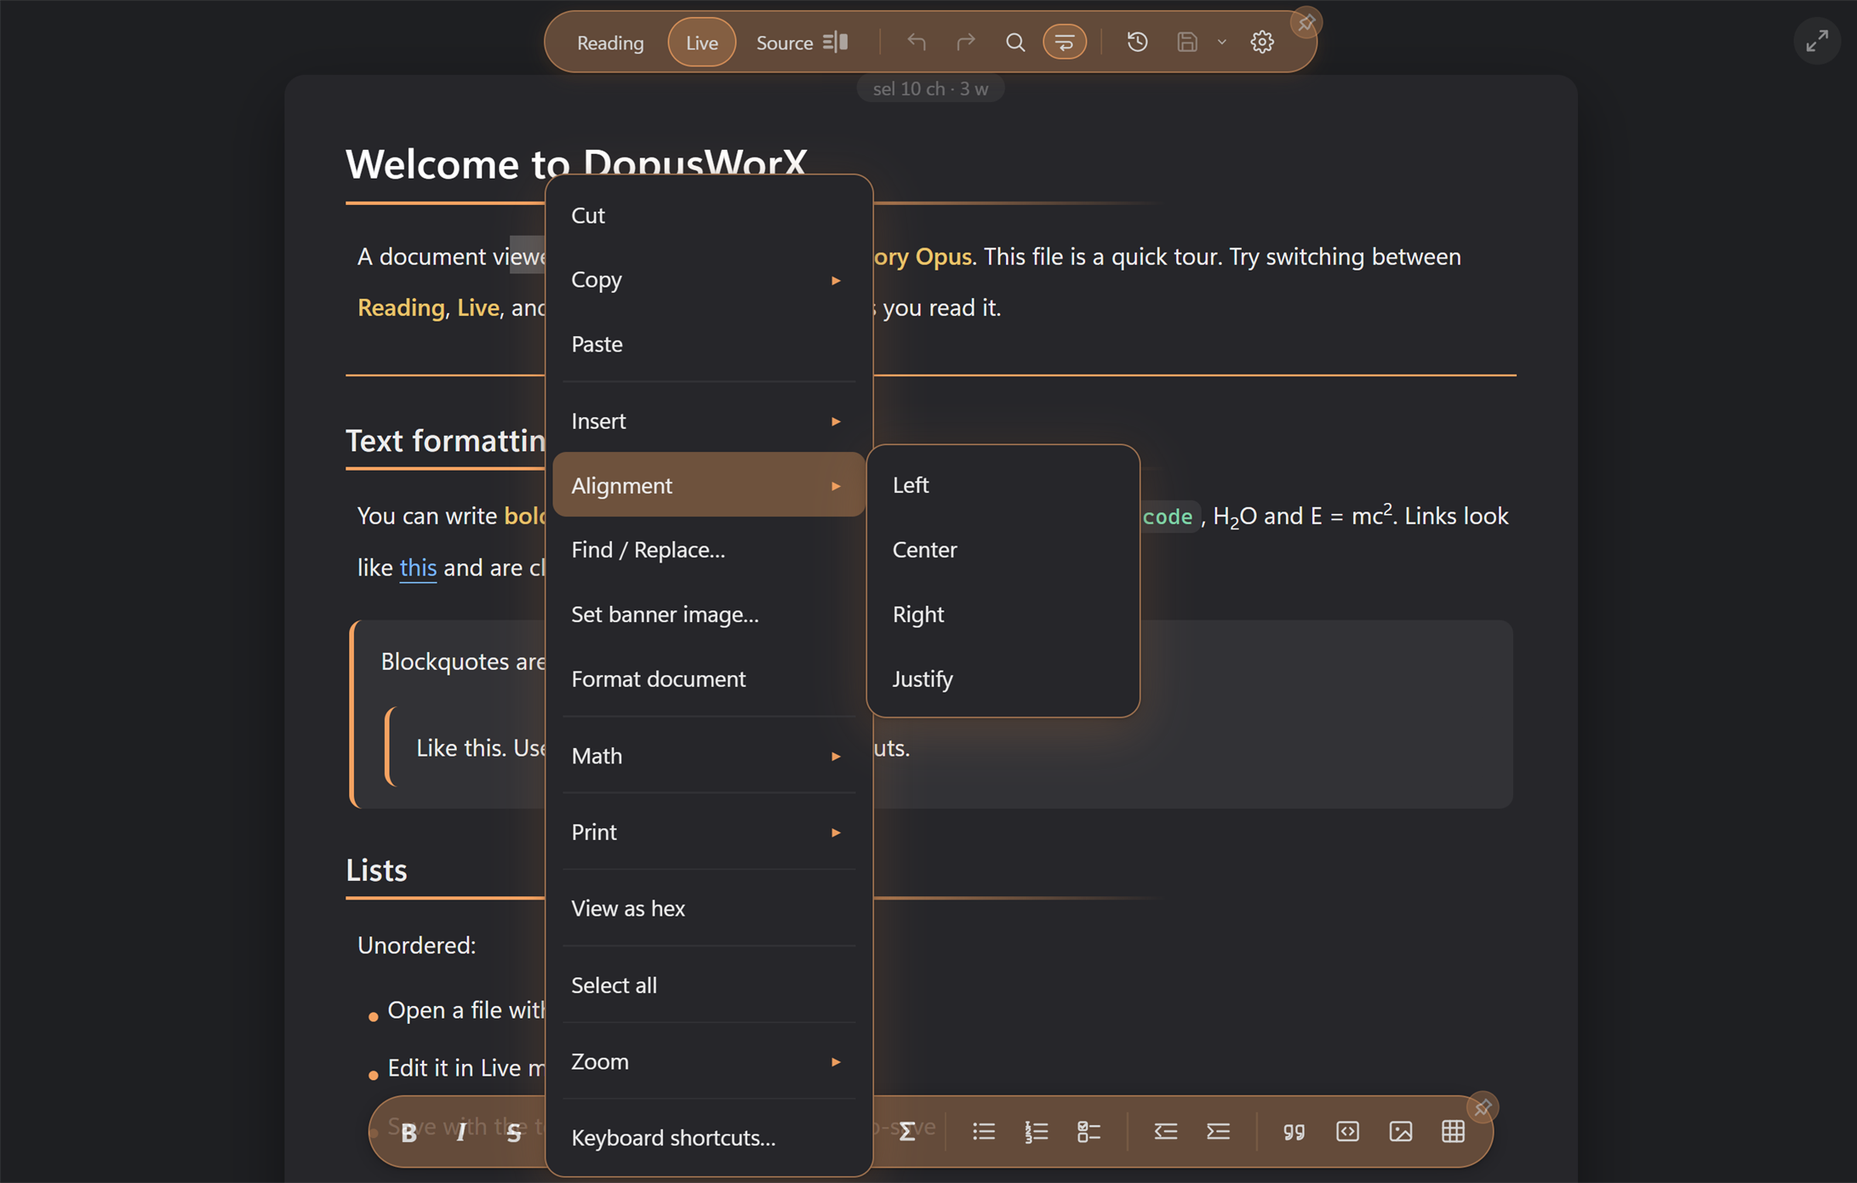
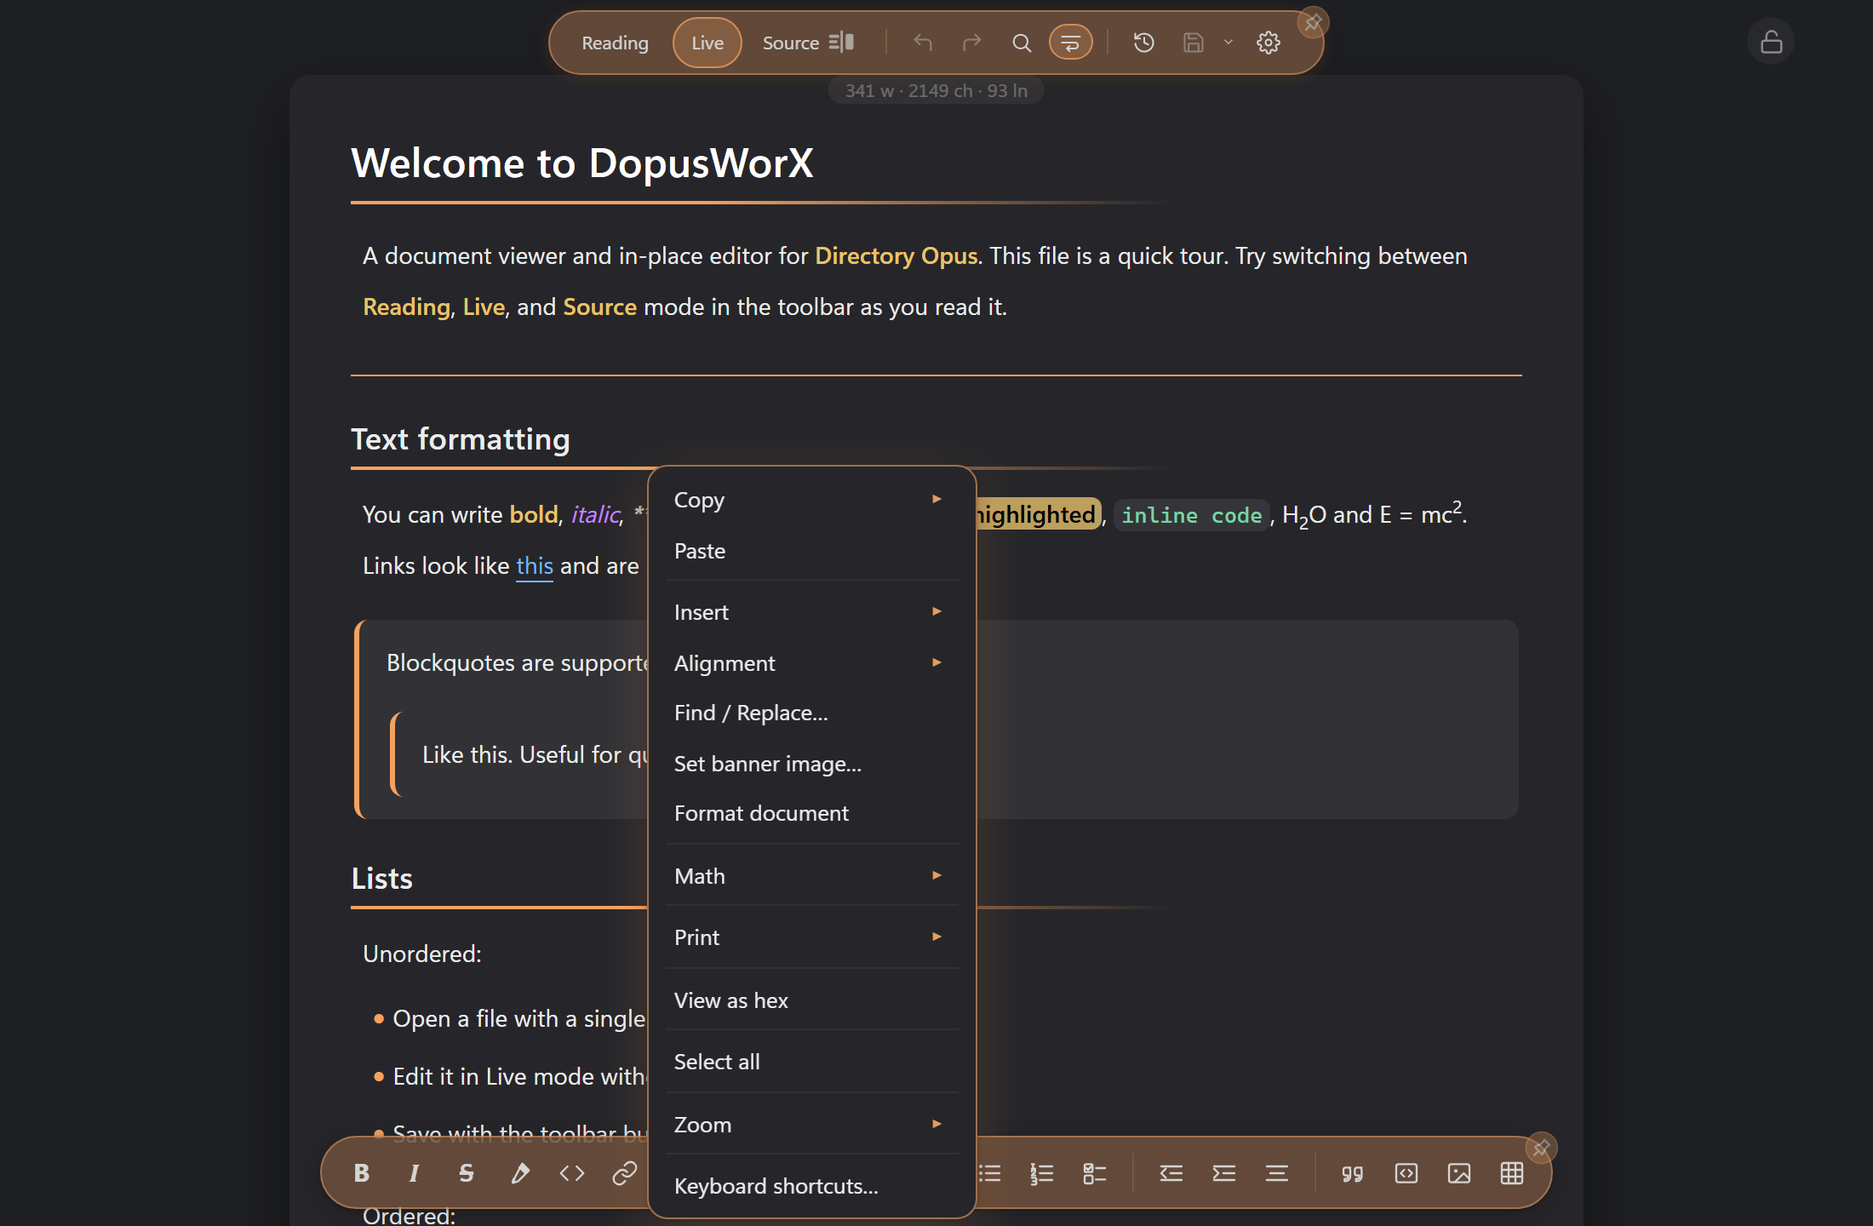
Docs: refresh the guides and screenshots
The editing toolbar gained a change-case button and an alignment button, so
the toolbar and banner screenshots were showing a toolbar that no longer
exists. Recaptured those and the shots that carry the toolbar in the frame.

Documented both new buttons, and corrected the heading row: holding the
button now offers No heading, so the note about deleting the # by hand was
wrong. The conflict banner entries were missing Save a copy & reload, which
the banner has always shown in those two cases.

diff --git a/docs/03-editing.md b/docs/03-editing.md
@@ -56,7 +56,7 @@ The formatting toolbar runs along the bottom of the pane in Live and Source mode
 
 You can rearrange the toolbar to suit you: **Edit toolbar layout** in Settings, on the General tab under Toolbars, lets you drag buttons sideways to reorder them, click one to hide or show it, and Reset to put the default set back.
 
-<div align="center"><img src="images/editing-toolbar.png" width="640" alt="The formatting toolbar: bold, italic, strikethrough, highlight, inline code, link, footnote and clear-formatting, then the heading and maths buttons, the list buttons, indent, blockquote, code block, and image and table insert"></div>
+<div align="center"><img src="images/editing-toolbar.png" width="640" alt="The formatting toolbar: bold, italic, strikethrough, highlight, inline code, link, footnote and clear-formatting, then the heading, change-case and maths buttons, the list buttons, indent and align, blockquote, code block, and image and table insert"></div>
 
 ### Inline formatting
 
@@ -77,16 +77,34 @@ The common inline wraps also have keyboard shortcuts in markdown Live and Source
 
 | Button | What it does |
 |---|---|
-| **Heading (H)** | Cycles the heading level of the current line. The number on the button shows what the next click will apply. A plain line becomes H1; an existing heading steps up one level, wrapping H6 back to H1. Moving the cursor to another line re-reads that line's level. The button always sets a level rather than removing it; to drop a heading, delete the `#` or undo. |
+| **Heading (H)** | Cycles the heading level of the current line. The number on the button shows what the next click will apply. A plain line becomes H1; an existing heading steps up one level, wrapping H6 back to H1. Moving the cursor to another line re-reads that line's level. Hold the button instead of clicking it and a menu opens with Heading 1 to Heading 6 and **No heading**, which takes the `#` marks off and leaves a plain line. |
+| **Change case (Aa)** | Changes the case of the selected words. Clicking cycles UPPERCASE, lowercase, Sentence case, hyphenated-words and camelCaseWords in that order, so you can press it until the text reads the way you want. Hold it to open the list and pick one outright. The last two join the words together, so they need more than one word to mean anything and are greyed out when a single word is selected. |
 | **Sigma (Σ)** | Opens the maths symbol panel. The button is present whenever maths rendering is on, which it is by default, and disappears only if you turn maths off in settings. See the maths page for what the panel does. |
 
 ### Lists
 
 | Button | Produces |
 |---|---|
-| **Bulleted list** | `- ` on each selected line (click again to remove) |
-| **Numbered list** | `1. `, `2. `, `3. ` down the selected lines, renumbered in sequence (click again to remove) |
-| **Task list** | `- [ ] ` on each selected line, preserving any indent so it works inside nested lists (click again to remove) |
+| **Bulleted list** | `- ` at the start of each selected paragraph (click again to remove) |
+| **Numbered list** | `1. `, `2. `, `3. ` down the selected paragraphs, renumbered in sequence (click again to remove) |
+| **Task list** | `- [ ] ` on each selected paragraph, preserving any indent so it works inside nested lists (click again to remove) |
+
+The list buttons work on paragraphs, not on lines of the file. Prose is usually
+hard-wrapped across several lines, so marking every line would turn each
+continuation into an item of its own and put an empty item on every blank line
+between paragraphs. A wrapped paragraph becomes one item, and blank lines are
+left alone. Selecting nothing and clicking inside a paragraph marks that
+paragraph, wherever the cursor sits in it.
+
+The exception is a list you are already building. If the selection already
+contains markers - `- a` on one line and a bare `b` on the next - each line is
+treated as its own item, because that is a half-made list rather than a wrapped
+paragraph.
+
+**Enter** at the end of a list item starts the next one, carrying the marker,
+the indent and the number. Press it again on the empty item and the marker goes,
+leaving a plain line, the way a word processor ends a list. On a nested item the
+first press steps back out to the outer list.
 
 **Tab** indents the current line and **Shift+Tab** outdents it, two spaces at a time. This works on any line in the editor, not just list lines - the same two-space step as the indent buttons below.
 
@@ -99,6 +117,7 @@ Settings, under Body text, one value that Reading and Live follow identically.
 |---|---|
 | **Increase indent** | adds two spaces to the front of each selected line |
 | **Decrease indent (outdent)** | removes up to two leading spaces from each selected line |
+| **Align** | centres the current block. Clicking again on something already centred takes the centring off, so the one button both applies and removes it. Hold it for Left, Centre, Right and Justify. It writes the same `<div align="...">` wrapper the right-click Align menu writes, and Reading and Live both honour it. |
 
 ### Blocks
 
@@ -106,6 +125,19 @@ Settings, under Body text, one value that Reading and Live follow identically.
 |---|---|
 | **Blockquote** | `> ` on each selected line (click again to remove) |
 | **Fenced code block** | a ```` ``` ```` fence around the selection, or an empty fence with the cursor on the body line. The fence always starts and ends on its own line so it parses cleanly. |
+
+Everything the toolbar writes works inside a quote box and stays inside it. A
+quote continues only while every line carries its `> `, so anything written
+without one would end the quote at that point and split it in two. The list
+buttons put their marker after the `> ` rather than in front of it, indent steps
+in behind it, and the code block, table and image inserts carry the prefix on
+every line they write, including the blank line they leave behind them. Block
+inserts also take a line of their own rather than joining the sentence the
+cursor was in.
+
+An alignment wrapper works around a quote too. `<center>` or
+`<div align="center">` around a quote box centres the box in Reading and in
+Live alike, so a centred call-out looks the same whichever mode you are in.
 | **Insert image** | opens the image popup (below) |
 | **Insert table** | opens the table size grid (below) |
 
@@ -115,7 +147,7 @@ A `---` on its own line renders as a horizontal rule divider. Its appearance - s
 
 When you open a code or text file in Source mode, the formatting toolbar is replaced by a code-editing toolbar. These commands are language-agnostic and run CodeMirror's own editing commands, so they behave exactly like the editor itself.
 
-<div align="center"><img src="images/code-toolbar.png" width="280" alt="The code-editing toolbar: toggle comment, outdent, indent, duplicate line, move line up, move line down, find, and the whitespace and indentation guide toggles"></div>
+<div align="center"><img src="images/code-toolbar.png" width="280" alt="The code-editing toolbar: toggle comment, change case, outdent, indent, duplicate line, move line up, move line down, find, and the whitespace and indentation guide toggles"></div>
 
 | Button | What it does |
 |---|---|
@@ -164,6 +196,34 @@ The image button (in the formatting toolbar) opens a small popup so you can plac
 Insert is enabled as soon as the Source field has text. The popup writes Obsidian-style image markdown, for example `![alt|400x300|center](path)`, which renders at the right size and alignment both here and in Obsidian. Click outside the popup, or its close control, to close it.
 
 You can write the same syntax by hand anywhere: `![alt|420](path)` sets a width, `![alt|420x300](path)` width and height, `![alt|x300](path)` a height alone, and a trailing `|left`, `|center` or `|right` aligns the image. The Obsidian embed form takes the same sizes: `![[img.png|420]]` (see [Wikilinks and embeds](#wikilinks-and-embeds)).
+
+### Pasting an image
+
+Copy a picture anywhere in Windows and press Ctrl+V in the document. A screenshot,
+an image copied out of a browser or a paint program, a file copied in a Lister: if
+the clipboard holds a picture, DopusWorX writes it to disk and drops the markdown
+reference in at the cursor. Nothing to fill in and no popup.
+
+The file is named `pasted-` plus the date and time, so a folder of them stays in
+the order you made them and two documents in the same folder never collide. Its
+type comes from the picture itself rather than from what the clipboard claims, so
+a PNG lands as `.png` and a JPEG as `.jpg`. PNG, JPEG, GIF, WebP, BMP, ICO, AVIF,
+HEIC and SVG are all recognised; anything else is refused rather than saved under
+a guessed name.
+
+By default the file goes next to the document. The **Save pasted images to**
+setting takes a folder name instead, `attachments` being the usual choice, and it
+is created the first time you paste. It has to be a plain folder under the
+document's own folder.
+
+Two things worth knowing:
+
+- The document needs to have been saved somewhere first. Until it has a path there
+  is no folder to write beside, and the viewer says so rather than guessing.
+- Pasting text is untouched. An image only takes over when the clipboard actually
+  holds one, which is also what happens when you copy a picture from a web page:
+  the clipboard carries both the picture and its URL, and the picture is the one
+  you meant.
 
 ### How local images are found
 
@@ -419,7 +479,7 @@ Ctrl+R or F5 reloads the file from disk, in any mode, not just Reading. If you h
 
 ### If the file changes underneath you
 
-<div align="center"><img src="images/conflict-banner.png" width="640" alt="The frosted conflict banner overlaying the document, showing the 'Edits here and a change outside' message with Keep my edits and Discard and reload buttons"></div>
+<div align="center"><img src="images/conflict-banner.png" width="640" alt="The frosted conflict banner overlaying the document, showing the 'Edits here and a change outside' message with Keep my edits, Save a copy & reload and Discard my edits and load it buttons"></div>
 
 Your unsaved work is never silently dropped.
 
@@ -428,9 +488,9 @@ Switch away from a file you were editing and back again and the edits are simply
 The banner is for when two versions really are in play. It appears and stays until you choose. The message and buttons fit the case:
 
 - **Unsaved edits in another window.** If another DopusWorX window holds unsaved edits for the same file, the banner says so and offers **Use those edits here** (adopt them and carry on), **Save a copy & reload** (writes your edits to a timestamped copy beside the file, then loads the disk version) or **View disk version**. Viewing the disk version never touches the other window's edits; they stay safe in that window.
-- **Edits here and a change outside.** If you have unsaved edits and the file also changed on disk or in another window, **Keep my edits** keeps your version and makes your next save win; **Discard and reload** takes the disk version.
-- **A save lost the race.** If a save finds the disk copy changed first, **Keep my edits** saves your version over it; **Discard and reload** takes the disk version.
-- **No local edits, new content elsewhere.** If your copy is clean and the file changed on disk or was saved by another window, the banner asks whether to **Reload** or **Keep current view**.
+- **Edits here and a change outside.** If you have unsaved edits and the file also changed on disk or in another window, **Keep my edits** keeps your version and makes your next save win; **Save a copy & reload** writes your edits to a timestamped copy beside the file and then loads the disk version; **Discard my edits and load it** takes the disk version.
+- **A save lost the race.** If a save finds the disk copy changed first, **Keep my edits** saves your version over it; **Save a copy & reload** keeps both, as a timestamped copy beside the file; **Discard my edits and load it** takes the disk version.
+- **No local edits, new content elsewhere.** If your copy is clean and the file changed on disk or was saved by another window, the banner asks whether to **Load the new version** or **Keep this version**.
 
 This prompt is controlled by **Ask before reloading** in Settings, on the General tab under Open & save (on by default). Turn it off and a clean file reloads straight away with a brief notice instead of a banner - useful for logs or generated files that update on their own. Unsaved edits plus a change outside always prompt regardless of this setting.
 

diff --git a/docs/07-palettes.md b/docs/07-palettes.md
@@ -1,7 +1,10 @@
 # Palettes
 
-32 built-in palettes &middot; 19 dark &middot; 13 light, plus the **Default** dark
-and light themes the viewer falls back to when no palette is pinned.
+34 built-in palettes &middot; 20 dark &middot; 14 light, plus the **Default** dark
+and light themes the viewer falls back to when no palette is pinned. Thirty-two
+of them have a card below. The two GitHub Web palettes do not, because what they
+look like is a GitHub page: open a README under one and you are looking at the
+card already.
 
 Out of the box no palette is fixed: the page follows the Opus pane background
 (light or dark), which is what the **Default Dark** and **Default Light** cards
@@ -92,6 +95,34 @@ Every marker token is coloured via the palette accent; bold / italic / strike / 
 </tr>
 </table>
 
+## The GitHub pairs, and which one you want
+
+There are two GitHub entries in each list and they do different jobs.
+
+**GitHub Dark** and **GitHub Light** are Primer's colours on the DopusWorX
+layout. Pick one of those if you like the way github.com looks and want your
+documents to read that way, with the spacing, headings and code boxes you are
+used to here.
+
+**GitHub Web Dark** and **GitHub Web Light** go further. They carry the site's
+measurements as well as its colours: 16px body text on a 1.5 line, headings at
+2 / 1.5 / 1.25 / 1 / 0.875 / 0.85em with 24px above and 16px below, a hairline
+under the H1 and H2, a grey bar down an unfilled blockquote, lists indented 2em,
+inline code at 85% in a soft chip, fenced code in a 6px box with no accent
+stripe, table cells at 6px by 13px with every second row shaded, and a 4px
+horizontal rule. Bold, italic, strikethrough and inline code all take the body
+colour, because that is what the site does with them.
+
+That is the pair to use while you are writing a README. What you see in the pane
+is what the repository page will show, so you can catch a heading that wants to
+be an H2 or a table that runs too wide before you push it.
+
+The numbers come from `github-markdown-css`, the published build of Primer that
+github.com renders a README with, so they are the site's own rather than a match
+by eye. Your own settings still win: set the body size to 18px and you keep
+18px, with GitHub's proportions built on top of it. Reading and Live are driven
+from the same values, so switching modes does not move anything.
+
 ## NibWorX, and the gradient in the code
 
 NibWorX and NibWorX Light are the DopusWorX mark read as a document theme. The six heading colours are steps 1, 3, 5, 7, 9 and 11 of the same
@@ -179,11 +210,25 @@ A few related controls sit alongside the palette picker:
   clear of the floating toolbar, so that is the one to reduce if you want the
   document to start higher. Each field takes a bare number as pixels or any CSS
   length, and an empty field keeps the default.
+- **Close the top gap when the toolbar hides**, the checkbox under those fields,
+  is off by default. Off, the page sits in the same place whether the top toolbar
+  is pinned or set to auto show on hover, so the top margin means one thing and
+  the toolbar lays over the first lines when it slides in. On, the gap closes
+  while the toolbar is hidden and the document starts at the very top of the
+  pane, which gives you back the strip the toolbar was holding open. It only ever
+  describes the hidden state: pin the toolbar and the margin comes straight back,
+  and a top margin you have set yourself wins over it either way.
 - **Quotes**, **Tables** and **Lines**, further down the Appearance tab, hold the
   blockquote and table colours and the horizontal rule: its colour, its thickness
   and its **style** - solid, a gradient fade, a centre fade, dotted, dashed, a
   double line, or three centred diamonds. (The banner height is on the Markdown
   tab, under Images.)
+- **Quote line spacing** and **Quote paragraph spacing**, in that same Quotes
+  section, set how the text sits inside a quote box. Quote text runs tighter than
+  body text on purpose, or a one-line quote is stranded in a tall box, so it has
+  its own line-height rather than following the body setting. The defaults are
+  1.7 for the lines and 0.7em between paragraphs within one quote; the space
+  around the whole box is block spacing, not this.
 
 <div align="center"><img src="images/hr-styles.png" width="640" alt="The seven horizontal rule styles stacked and labelled: solid, gradient fade, centre fade, dotted, dashed, double line and the three-diamond ornament"></div>
 

diff --git a/README.md b/README.md
@@ -14,14 +14,17 @@ Windows x64 &nbsp;·&nbsp; needs the Microsoft Edge WebView2 runtime &nbsp;·&nb
 
 ---
 
+<center>
 Get the plugin from the [Releases Page](https://github.com/HyperWorX/DopusWorX/releases)
+</center>
 
----
 <div align="center">
 If DopusWorX is useful to you and you'd like to support the work, you can...
 </br>
 </br>
 <a href="https://www.buymeacoffee.com/HyperWorX" target="_blank"><img src="https://cdn.buymeacoffee.com/buttons/v2/default-yellow.png" alt="Buy Me a Coffee" height="48"></a>
+
+<sub>Also from HyperWorX: <a href="https://github.com/HyperWorX/HyperWhisper">HyperWhisper</a>, offline transcription and translation for your own recordings.</sub>
 
 </div>
 
@@ -236,10 +239,12 @@ HTML files have a rendered **View**, a **Source** view of the raw markup, and a
 
 ## Themes and palettes
 
-Thirty-two built-in palettes, dark and light, from Dracula and Nord to Catppuccin,
+Thirty-four built-in palettes, dark and light, from Dracula and Nord to Catppuccin,
 Everforest and Rosé Pine, alongside the signature ProWorX, GloWorX and NibWorX.
 By default a palette follows the Opus pane background automatically; you can pin
-one instead.
+one instead. Two of them go further than colour: **GitHub Web Light** and
+**GitHub Web Dark** lay the page out the way github.com lays out a README, so you
+can see what you are about to push.
 
 <div align="center"><img src="img/palette-cascade.png" width="640" alt="The same document shown across several built-in palettes"></div>
 
@@ -247,7 +252,8 @@ Nothing is locked down. The visual editor lets you change any colour and save it
 as your own named theme. Bold, italic, strikethrough and inline code each get
 their own colour, headings can be coloured per level, and the page surface,
 rules, borders and shadows are all yours to tune. See
-[`docs/07-palettes.md`](docs/07-palettes.md) for a card of every palette.
+[`docs/07-palettes.md`](docs/07-palettes.md) for the full list, with a card for
+each.
 
 ## Markdown extras and Obsidian syntax
 
@@ -400,8 +406,6 @@ The [`samples/showcase/`](samples/showcase/) folder has a handful of demo
 documents, numbered in the order they are worth opening: headings and a table of
 contents, typography and lists, banner images, frontmatter, and the Source split
 view. Open one in the pane and there is something to look at straight away.
-
----
 
 <div align="center">
 

diff --git a/docs/06-context-menus.md b/docs/06-context-menus.md
@@ -15,6 +15,8 @@ The menu is built fresh on every right-click, so it only ever lists actions that
 
 Live, Source, and a code file's Source view are editable surfaces. Reading is read-only, so the editing items (Cut, Paste, Insert, Alignment, Find / Replace) are held back there.
 
+If the pane is shorter than the menu, the menu is capped to the pane and scrolls, so the entries at the bottom stay reachable without moving the window. The submenus still open alongside it as normal.
+
 ### Markdown and document views
 
 These are the items you can see, roughly top to bottom. Not all show at once.
